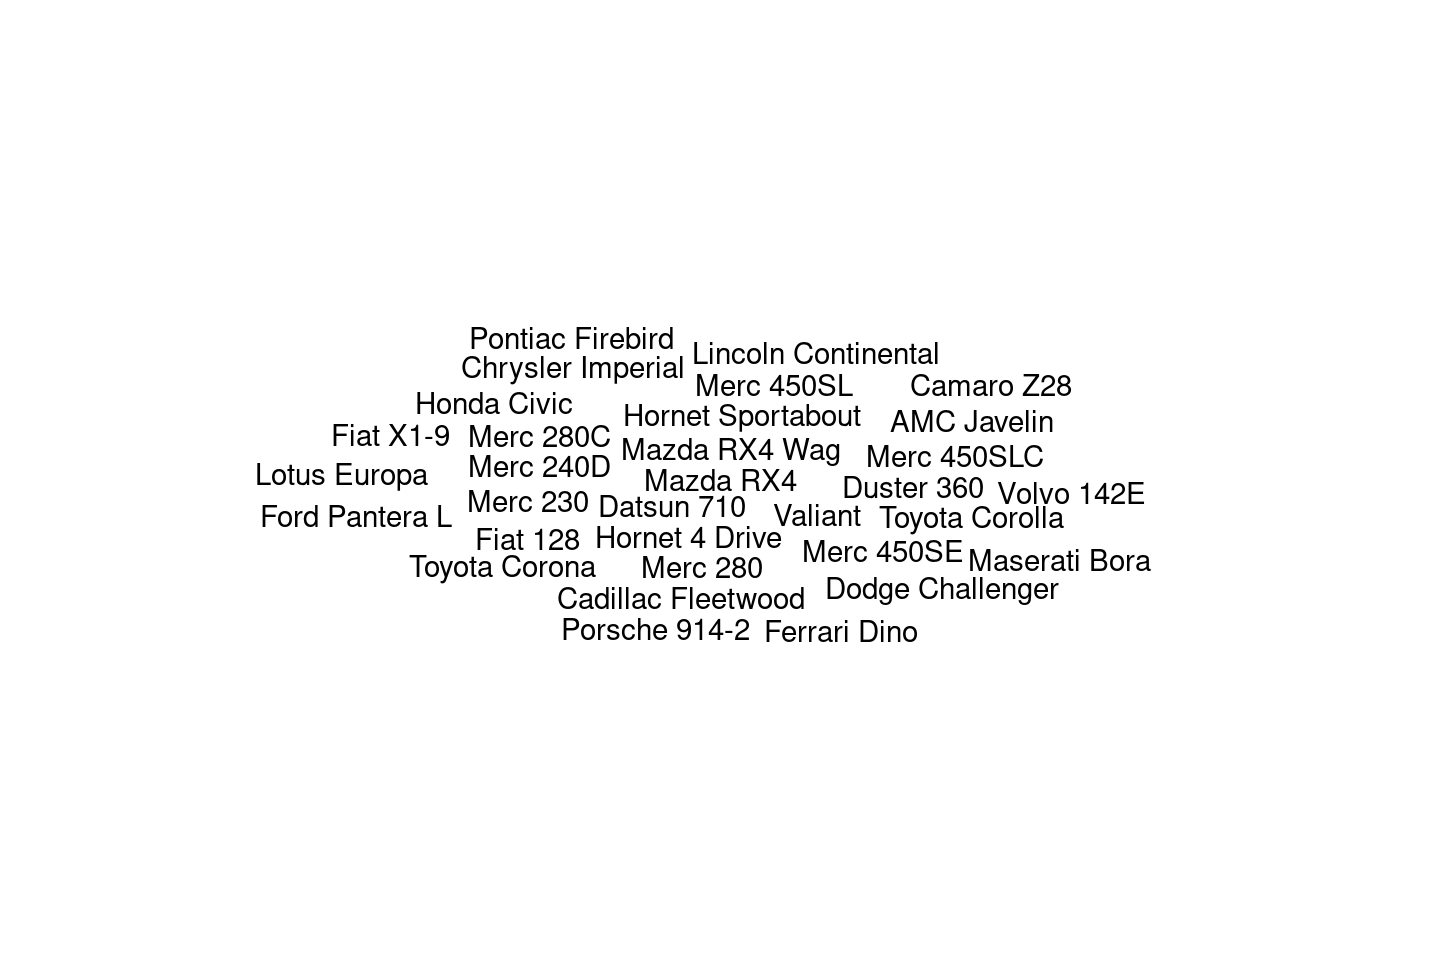
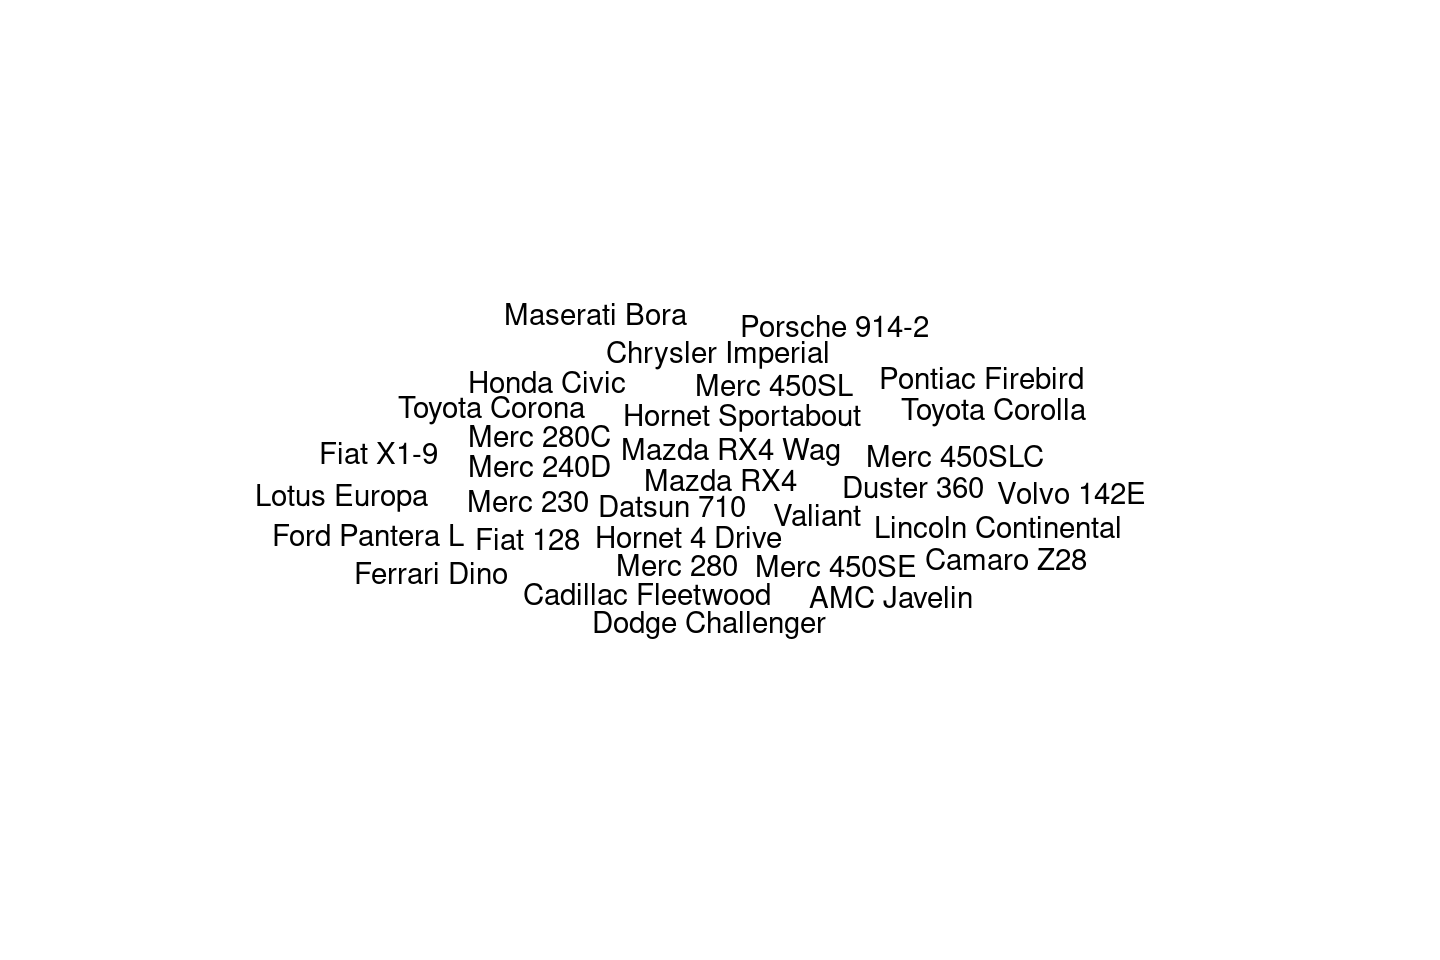
Update doc

Changed region(s): [[0.1562, 0.3125, 0.8125, 0.6875]]

diff --git a/docs/reference/geom_text_wordcloud.html b/docs/reference/geom_text_wordcloud.html
@@ -136,8 +136,9 @@ related to the size aesthetic.</p>
   <span class='kw'>perc_step</span> <span class='kw'>=</span> <span class='fl'>0.01</span>, <span class='kw'>max_steps</span> <span class='kw'>=</span> <span class='fl'>10</span>, <span class='kw'>grid_size</span> <span class='kw'>=</span> <span class='fl'>4</span>,
   <span class='kw'>max_grid_size</span> <span class='kw'>=</span> <span class='fl'>128</span>, <span class='kw'>grid_margin</span> <span class='kw'>=</span> <span class='fl'>1</span>, <span class='kw'>xlim</span> <span class='kw'>=</span> <span class='fu'>c</span>(<span class='fl'>NA</span>, <span class='fl'>NA</span>),
   <span class='kw'>ylim</span> <span class='kw'>=</span> <span class='fu'>c</span>(<span class='fl'>NA</span>, <span class='fl'>NA</span>), <span class='kw'>seed</span> <span class='kw'>=</span> <span class='fl'>NA</span>, <span class='kw'>rm_outside</span> <span class='kw'>=</span> <span class='fl'>FALSE</span>,
-  <span class='kw'>shape</span> <span class='kw'>=</span> <span class='st'>"circle"</span>, <span class='kw'>area_corr</span> <span class='kw'>=</span> <span class='fl'>FALSE</span>, <span class='kw'>area_corr_power</span> <span class='kw'>=</span> <span class='fl'>1</span>/<span class='fl'>0.7</span>,
-  <span class='kw'>na.rm</span> <span class='kw'>=</span> <span class='fl'>FALSE</span>, <span class='kw'>show.legend</span> <span class='kw'>=</span> <span class='fl'>FALSE</span>, <span class='kw'>inherit.aes</span> <span class='kw'>=</span> <span class='fl'>TRUE</span>)
+  <span class='kw'>shape</span> <span class='kw'>=</span> <span class='st'>"circle"</span>, <span class='kw'>mask</span> <span class='kw'>=</span> <span class='fl'>NA</span>, <span class='kw'>area_corr</span> <span class='kw'>=</span> <span class='fl'>FALSE</span>,
+  <span class='kw'>area_corr_power</span> <span class='kw'>=</span> <span class='fl'>1</span>/<span class='fl'>0.7</span>, <span class='kw'>na.rm</span> <span class='kw'>=</span> <span class='fl'>FALSE</span>, <span class='kw'>show.legend</span> <span class='kw'>=</span> <span class='fl'>FALSE</span>,
+  <span class='kw'>inherit.aes</span> <span class='kw'>=</span> <span class='fl'>TRUE</span>)
 
 <span class='fu'>geom_text_wordcloud_area</span>(<span class='kw'>mapping</span> <span class='kw'>=</span> <span class='kw'>NULL</span>, <span class='kw'>data</span> <span class='kw'>=</span> <span class='kw'>NULL</span>,
   <span class='kw'>stat</span> <span class='kw'>=</span> <span class='st'>"identity"</span>, <span class='kw'>position</span> <span class='kw'>=</span> <span class='st'>"identity"</span>, <span class='no'>...</span>, <span class='kw'>parse</span> <span class='kw'>=</span> <span class='fl'>FALSE</span>,
@@ -145,8 +146,9 @@ related to the size aesthetic.</p>
   <span class='kw'>tstep</span> <span class='kw'>=</span> <span class='fl'>0.02</span>, <span class='kw'>perc_step</span> <span class='kw'>=</span> <span class='fl'>0.01</span>, <span class='kw'>max_steps</span> <span class='kw'>=</span> <span class='fl'>10</span>, <span class='kw'>grid_size</span> <span class='kw'>=</span> <span class='fl'>4</span>,
   <span class='kw'>max_grid_size</span> <span class='kw'>=</span> <span class='fl'>128</span>, <span class='kw'>grid_margin</span> <span class='kw'>=</span> <span class='fl'>1</span>, <span class='kw'>xlim</span> <span class='kw'>=</span> <span class='fu'>c</span>(<span class='fl'>NA</span>, <span class='fl'>NA</span>),
   <span class='kw'>ylim</span> <span class='kw'>=</span> <span class='fu'>c</span>(<span class='fl'>NA</span>, <span class='fl'>NA</span>), <span class='kw'>seed</span> <span class='kw'>=</span> <span class='fl'>NA</span>, <span class='kw'>rm_outside</span> <span class='kw'>=</span> <span class='fl'>FALSE</span>,
-  <span class='kw'>shape</span> <span class='kw'>=</span> <span class='st'>"circle"</span>, <span class='kw'>area_corr</span> <span class='kw'>=</span> <span class='fl'>TRUE</span>, <span class='kw'>area_corr_power</span> <span class='kw'>=</span> <span class='fl'>1</span>/<span class='fl'>0.7</span>,
-  <span class='kw'>na.rm</span> <span class='kw'>=</span> <span class='fl'>FALSE</span>, <span class='kw'>show.legend</span> <span class='kw'>=</span> <span class='fl'>FALSE</span>, <span class='kw'>inherit.aes</span> <span class='kw'>=</span> <span class='fl'>TRUE</span>)</pre>
+  <span class='kw'>shape</span> <span class='kw'>=</span> <span class='st'>"circle"</span>, <span class='kw'>mask</span> <span class='kw'>=</span> <span class='fl'>NA</span>, <span class='kw'>area_corr</span> <span class='kw'>=</span> <span class='fl'>TRUE</span>,
+  <span class='kw'>area_corr_power</span> <span class='kw'>=</span> <span class='fl'>1</span>/<span class='fl'>0.7</span>, <span class='kw'>na.rm</span> <span class='kw'>=</span> <span class='fl'>FALSE</span>, <span class='kw'>show.legend</span> <span class='kw'>=</span> <span class='fl'>FALSE</span>,
+  <span class='kw'>inherit.aes</span> <span class='kw'>=</span> <span class='fl'>TRUE</span>)</pre>
     
     <h2 class="hasAnchor" id="arguments"><a class="anchor" href="#arguments"></a>Arguments</h2>
     <table class="ref-arguments">
@@ -257,6 +259,14 @@ which means that <code>set.seed</code> will not be called.</p></td>
 <code>cardioid</code>, <code>diamond</code>, <code>square</code>, <code>triangle-forward</code>,
 <code>triangle-upright</code>, <code>pentagon</code>, <code>star</code>. Default to
 <code>circle</code></p></td>
+    </tr>
+    <tr>
+      <th>mask</th>
+      <td><p>a mask (or a list of masks) used to define a zone in which the
+text should be placed. Each mask should be coercible to a raster in which
+the color "black" defined the text zone. When a list of masks is given, the
+group aesthetic define which mask is going to be used. Default to
+<code>NA</code>, i.e. no mask.</p></td>
     </tr>
     <tr>
       <th>area_corr</th>

diff --git a/docs/articles/ggwordcloud.html b/docs/articles/ggwordcloud.html
@@ -73,7 +73,7 @@
       <h1>ggwordcloud: a word cloud geom for ggplot2</h1>
                         <h4 class="author">E. Le Pennec</h4>
             
-            <h4 class="date">2018-10-16</h4>
+            <h4 class="date">2018-10-17</h4>
       
       <small class="dont-index">Source: <a href="https://github.com/lepennec/ggwordcloud/blob/master/vignettes/ggwordcloud.Rmd"><code>vignettes/ggwordcloud.Rmd</code></a></small>
       <div class="hidden name"><code>ggwordcloud.Rmd</code></div>

diff --git a/docs/news/index.html b/docs/news/index.html
@@ -109,6 +109,7 @@
 <a href="#ggwordcloud-0-2-0-9000" class="anchor"></a>ggwordcloud 0.2.0.9000<small> Unreleased </small>
 </h1>
 <ul>
+<li>allow to use a mask</li>
 <li>add a parameter to select the shape of the cloud</li>
 <li>fix a zero pixel size issue</li>
 <li>better replacement using a radius scale instead of a size scale</li>

diff --git a/NEWS.md b/NEWS.md
@@ -1,4 +1,5 @@
 # ggwordcloud 0.2.0.9000
+* allow to use a mask
 * add a parameter to select the shape of the cloud
 * fix a zero pixel size issue
 * better replacement using a radius scale instead of a size scale
